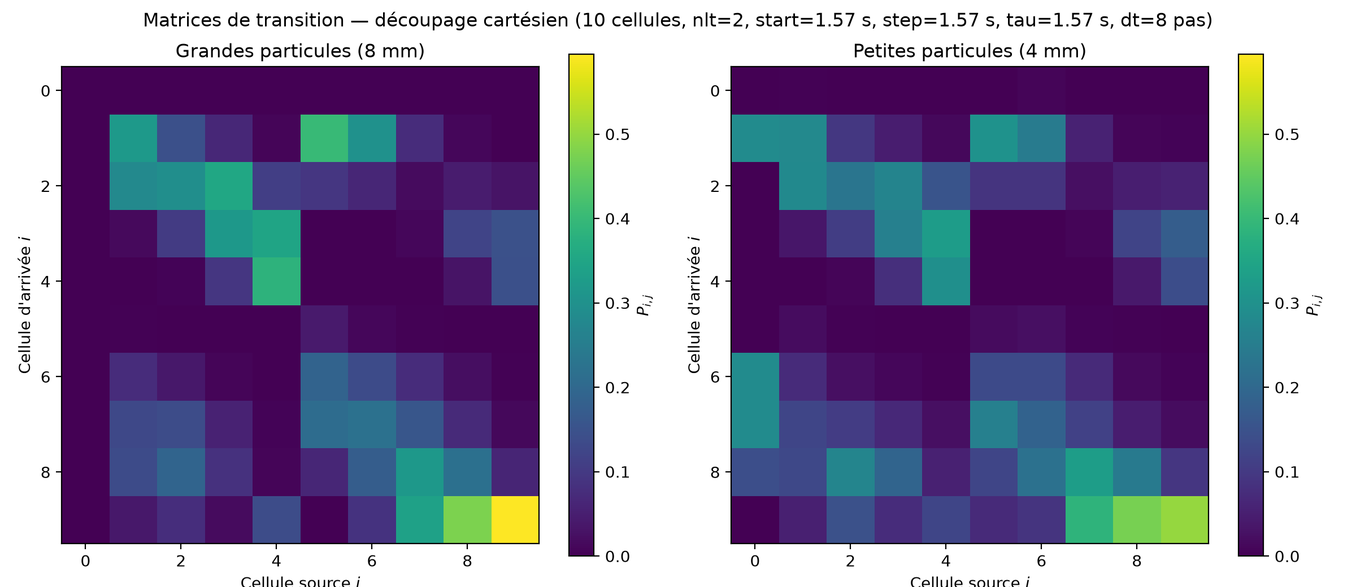
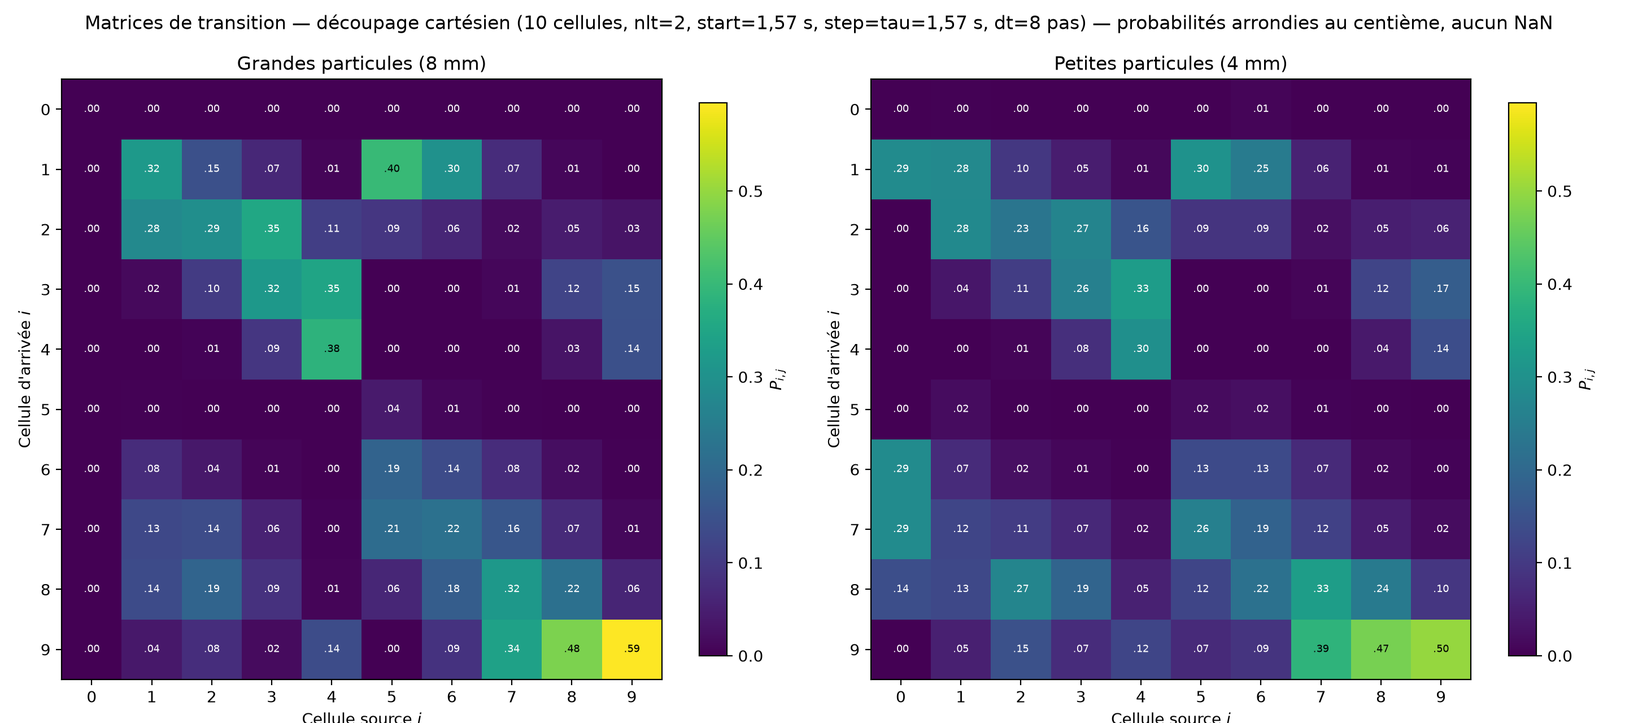
Conformité de la matrice de transition : matrices annotées au centième, vérification zéro NaN ; nouvelle annexe dt (les découpages géométriques exigent plus d'observation que les statistiques, dt=8 retenu comme critère de conformité) ; table 4 refaite avec les figures d'écart recalculées ; référence

diff --git a/template-rapport-stage/main.tex b/template-rapport-stage/main.tex
@@ -196,7 +196,7 @@ $\mathrm{RSD}$ : écart-type relatif (\textit{Relative Standard Deviation}), ind
 % ============================================================
 \section{Introduction}
 
-Qu'il s'agisse de comprimer des poudres pharmaceutiques, de doser des granulats pour la  construction ou de conditionner des céréales, les milieux granulaires interviennent dans un spectre industriel remarquablement large. Or, dès que des particules de tailles ou de densités différentes cohabitent, la ségrégation menace l'homogénéité du produit et, par là même, la qualité du procédé. Comprendre, prédire afin de contrôler ces phénomènes de tri spontané constitue donc un enjeu à la fois scientifique et économique de premier plan.
+Qu'il s'agisse de comprimer des poudres pharmaceutiques, de doser des granulats pour la construction, de conditionner des céréales ou d'incinérer des déchets en four rotatif industriel~\cite{ndiaye2010}, les milieux granulaires interviennent dans un spectre industriel remarquablement large. Or, dès que des particules de tailles ou de densités différentes cohabitent, la ségrégation menace l'homogénéité du produit et, par là même, la qualité du procédé. Comprendre, prédire afin de contrôler ces phénomènes de tri spontané constitue donc un enjeu à la fois scientifique et économique de premier plan.
 
 La simulation par la méthode des éléments discrets (DEM, \textit{Discrete Element Method}) offre une description exhaustive de la dynamique particulaire en résolvant, à chaque pas de temps de l'ordre de $10^{-6}$\,s, l'ensemble des contacts inter-grains et grain-paroi. Cette finesse a toutefois un coût en ressources numériques qui rend la méthode prohibitive dès que le nombre de particules atteint des ordres de grandeur industriels. D'où l'idée de substituer à la trajectoire déterministe de chaque grain un modèle probabiliste opéré à l'échelle de cellules spatiales.
 
@@ -261,12 +261,12 @@ Dans la pratique, les limites exactes de la partie utile ne sont pas imposées a
   \label{fig:schema_tambour}
 \end{figure}
 
-Les positions de l'ensemble des grains sont enregistrées tous les \SI{0.01}{s} sur \SI{60}{s}, soit 6000 instants d'observation. Cette base constitue la référence à partir de laquelle les matrices de transition sont estimées et les prédictions markoviennes sont validées. La figure~\ref{fig:pv_melangeur_especes}, issue du post-traitement 3D des données (rendu par sphères aux diamètres réels, à la manière de pyvista), montre le système simulé : à l'état initial, les 350 petites particules occupent une couche distincte sous les 680 grandes ; après un tour, le lit est en écoulement et l'inclinaison de la surface libre apparaît.
+Les positions de l'ensemble des grains sont enregistrées tous les \SI{0.01}{s} sur \SI{60}{s}, soit 6000 instants d'observation. Cette base constitue la référence à partir de laquelle les matrices de transition sont estimées et les prédictions markoviennes sont validées. La figure~\ref{fig:pv_melangeur_especes} montre le système simulé, particules représentées à leur diamètre réel : à l'état initial, les 350 petites particules occupent une couche distincte sous les 680 grandes ; après un tour, le lit est en écoulement et l'inclinaison de la surface libre apparaît.
 
 \begin{figure}[H]
   \centering
   \includegraphics[width=\linewidth]{figures/pv_melangeur_especes.png}
-  \caption{Post-traitement 3D du matériau de référence : les 1030 particules aux diamètres réels (petites 4 mm en bleu, grandes 8 mm en rouge), (a) à l'état initial où les espèces sont séparées et (b) après un tour de tambour, lit en écoulement.}
+  \caption{Matériau de référence : les 1030 particules aux diamètres réels (petites 4 mm en bleu, grandes 8 mm en rouge), (a) à l'état initial où les espèces sont séparées et (b) après un tour de tambour, lit en écoulement.}
   \label{fig:pv_melangeur_especes}
 \end{figure}
 
@@ -422,7 +422,7 @@ où $NLT$ est le nombre d'instants d'apprentissage, $\phi_p(i,t_n)$ la fonction 
   \item $\boldsymbol{\tau} = \SI{1.57}{s}$ (soit 157 pas d'extraction DEM) : le pas de temps de Markov est calé sur la durée d'un tour complet du tambour tournant à $\omega = \SI{4}{rad/s}$, soit $2\pi/\omega \approx \SI{1.57}{s}$. Ce choix, physiquement interprétable, garantit que les particules ont le temps de se déplacer d'une cellule à l'autre entre deux observations (justification détaillée en annexe~\ref{annexe:tau}) ;
   \item $\boldsymbol{start} = \SI{1.57}{s}$ : le premier instant utilisé pour l'apprentissage est choisi au début du régime permanent. Le début de simulation (régime transitoire) est volontairement écarté : les tout premiers instants correspondent à la mise en mouvement du lit, durant laquelle les probabilités de transition ne sont représentatives ni du mélange établi ni de la ségrégation en cours de formation ; apprendre sur cette phase biaiserait la matrice. L'étude comparative sur plusieurs valeurs de $start$ est donnée en annexe~\ref{annexe:start} ;
   \item $\boldsymbol{step} = \SI{1.57}{s}$ : lorsque plusieurs blocs d'apprentissage sont utilisés ($NLT > 1$), $step$ désigne l'écart entre les débuts de deux blocs consécutifs. Prendre $step = \tau$ fait se succéder les blocs sans recouvrement ni trou, chaque bloc correspondant à un tour de tambour supplémentaire (justification en annexe~\ref{annexe:step}) ;
-  \item $\boldsymbol{dt}$ : à l'intérieur d'un bloc, les paires d'instants $(t,\, t+\tau)$ sont échantillonnées tous les $dt$ pas de temps DEM. Cette stratégie de raffinage temporel entre les pas de temps démultiplie le nombre de paires observées : elle assure que chaque cellule source est visitée suffisamment souvent au cours de l'apprentissage, ce qui évite les colonnes vides --- donc les divisions par zéro et les \textit{NaN} --- dans la matrice de transition. Ces \textit{NaN} auraient pu être remplacés par des \textit{zéro} pour un soucis correspondance numérique; mais il n'auraient pas de signification physique.
+  \item $\boldsymbol{dt} = 8$ pas de sortie : à l'intérieur d'un bloc, les paires d'instants $(t,\, t+\tau)$ sont échantillonnées tous les $dt$ pas de sortie DEM. Cette stratégie de raffinage temporel démultiplie le nombre de paires observées : elle assure que chaque cellule est observée comme source au cours de l'apprentissage, ce qui évite les dénominateurs nuls --- donc les \textit{NaN} --- dans la matrice de transition. Ces \textit{NaN} auraient pu être remplacés par des zéros pour la commodité numérique, mais ils n'auraient pas de signification physique ; la conformité de la matrice (absence totale de \textit{NaN}) est donc retenue comme critère de choix de $dt$, et l'étude comparative correspondante est donnée en annexe~\ref{annexe:dt}. Elle montre que le besoin en observation dépend du type de découpage : les maillages géométriques, dont certaines cellules sont peu peuplées par construction, exigent un raffinage plus fin ($dt \leq 8$ pour le cylindrique) que les maillages statistiques, conformes dès $dt = \tau$.
 \end{itemize}
 
 \begin{table}[H]
@@ -437,7 +437,7 @@ où $NLT$ est le nombre d'instants d'apprentissage, $\phi_p(i,t_n)$ la fonction 
     $start$ & \SI{1.57}{s} & début de l'apprentissage & début du régime permanent (annexe~\ref{annexe:start})\\
     $step$ & \SI{1.57}{s} & écart entre blocs & blocs contigus, un tour chacun (annexe~\ref{annexe:step})\\
     $NLT$ & 1 à 50 & nombre de blocs & étude de sensibilité (annexe~\ref{annexe:nlt})\\
-    $dt$ & $\max(1, step/100)$ & raffinage temporel & éviter les NaN dans $\mathbf{P}$\\
+    $dt$ & 8 pas & raffinage temporel & conformité de $\mathbf{P}$, sans NaN (annexe~\ref{annexe:dt})\\
     \bottomrule
   \end{tabular}
 \end{table}
@@ -458,7 +458,7 @@ où $NLT$ est le nombre d'instants d'apprentissage, $\phi_p(i,t_n)$ la fonction 
   \label{eq:stochastique}
 \end{equation}
 
-Ces deux conditions sont vérifiées et validées pour chacun des modèles construits : la positivité découle du fait que l'on travaille dans un espace probabilisé, et la condition de somme unitaire traduit simplement le fait que toutes les particules quittant la cellule source $j$ se retrouvent quelque part dans le mélangeur à l'instant suivant. Implicitement, sa validation signifie que la phase d'apprentissage est suffisamment longue pour voir les particules se déplacer d'une partition à l'autre, évitant des \textit{NaN} dans la matrice.
+Ces deux conditions sont vérifiées et validées pour chacun des modèles construits : la positivité découle du fait que l'on travaille dans un espace probabilisé, et la condition de somme unitaire traduit simplement le fait que toutes les particules quittant la cellule source $j$ se retrouvent quelque part dans le mélangeur à l'instant suivant. Implicitement, sa validation signifie que la phase d'apprentissage est suffisamment longue pour voir chaque cellule observée comme source, évitant les \textit{NaN} dans la matrice. Les matrices présentées dans la section résultats, annotées au centième, satisfont toutes ce critère de conformité --- aucune n'exhibe de \textit{NaN} --- grâce au choix du raffinage temporel $dt$ justifié en annexe~\ref{annexe:dt}.
 \paragraph{Deux matrices distinctes par espèce.} Les petites et les grandes particules n'ayant pas la même dynamique --- les petites percolent à travers le lit tandis que les grandes remontent en surface ---, une matrice de transition unique moyennerait deux comportements physiquement distincts. Deux matrices sont donc estimées séparément, en appliquant un masque sur les labels afin de ne compter que les particules d'une espèce donnée. Ce choix est justifié quantitativement par l'étude de sensibilité de l'annexe~\ref{annexe:especes}, qui compare l'erreur de prédiction du modèle construit sans distinction d'espèce (matrice unique) à celle du modèle construit avec distinction (matrices par espèce), pour les quatre méthodes de découpage.
 
 \paragraph{Chaîne homogène.} Lorsque $\mathbf{P}$ est supposée invariante dans le temps, la prédiction à $n$ pas s'écrit :
@@ -708,7 +708,7 @@ Pour quantifier le degré d'homogénéité, nous utilisons l'écart-type relatif
 
 où $N_c$ est le nombre de cellules et $\bar{c}$ la teneur moyenne en petites particules.
 
-Chaque méthode de découpage est d'abord illustrée par un post-traitement 3D du mélangeur --- particules aux diamètres réels colorées par le label de leur cellule --- qui sert de base visuelle aux justifications et validations qui suivent : ces vues permettent de vérifier la labélisation, d'identifier les cellules sur- ou sous-peuplées et de relier les propriétés des matrices de transition à la géométrie effective des cellules. La figure~\ref{fig:melangeur_partitions} en donne un premier aperçu : chaque couleur correspond à une cellule du découpage, et l'on distingue immédiatement que certaines partitions sont plus peuplées que d'autres. Ce déséquilibre est physique : la gravité concentre les particules dans la moitié basse du tambour, la zone passive au cœur du lit reçoit et piège davantage de grains que la zone active de surface, et la ségrégation en cours enrichit certaines cellules en petites particules --- celles-ci percolent à travers les interstices du lit vers la paroi et le cœur, tandis que les grandes remontent en surface. C'est précisément cette hétérogénéité spatiale, variable dans le temps, que le modèle de Markov doit reproduire.
+Chaque méthode de découpage est d'abord illustrée par une vue du mélangeur --- particules aux diamètres réels colorées par le label de leur cellule --- qui sert de base visuelle aux justifications et validations qui suivent : ces vues permettent de vérifier la labélisation, d'identifier les cellules sur- ou sous-peuplées et de relier les propriétés des matrices de transition à la géométrie effective des cellules. La figure~\ref{fig:melangeur_partitions} en donne un premier aperçu : chaque couleur correspond à une cellule du découpage, et l'on distingue immédiatement que certaines partitions sont plus peuplées que d'autres. Ce déséquilibre est physique : la gravité concentre les particules dans la moitié basse du tambour, la zone passive au cœur du lit reçoit et piège davantage de grains que la zone active de surface, et la ségrégation en cours enrichit certaines cellules en petites particules --- celles-ci percolent à travers les interstices du lit vers la paroi et le cœur, tandis que les grandes remontent en surface. C'est précisément cette hétérogénéité spatiale, variable dans le temps, que le modèle de Markov doit reproduire.
 
 \begin{figure}[H]
   \centering
@@ -723,12 +723,12 @@ Chaque méthode de découpage est d'abord illustrée par un post-traitement 3D d
 
 \subsubsection{Découpage cartésien}
 
-La figure~\ref{fig:pv_cellules_cartesien} montre le résultat du découpage produit par le partitionneur cartésien de la librairie : chaque grain, représenté à son diamètre réel, est coloré par le label \textit{cell\_id} de la cellule qui le contient, en vue de face et en vue de côté. On y vérifie la labélisation en grille $5 \times 2 \times 1$ : cinq bandes verticales en $x$, deux niveaux en $y$, chaque cellule couvrant toute la longueur axiale. On note que les bornes de la grille étant ajustées sur l'enveloppe de \emph{toutes} les positions observées (convention de la librairie pour cette méthode), le lit incliné ne peuple pas uniformément les dix cellules : les cellules hautes côté droit (8, 9) sont très peuplées, la cellule basse extrême (0) reste quasiment vide.
+La figure~\ref{fig:pv_cellules_cartesien} montre le résultat du découpage cartésien : chaque grain, représenté à son diamètre réel, est coloré par le label \textit{cell\_id} de la cellule qui le contient, en vue de face et en vue de côté. On y vérifie la labélisation en grille $5 \times 2 \times 1$ : cinq bandes verticales en $x$, deux niveaux en $y$, chaque cellule couvrant toute la longueur axiale. On note que les bornes de la grille étant ajustées sur l'enveloppe de l'ensemble des positions observées, le lit incliné ne peuple pas uniformément les dix cellules : les cellules hautes côté droit (8, 9) sont très peuplées, la cellule basse extrême (0) reste quasiment vide.
 
 \begin{figure}[H]
   \centering
   \includegraphics[width=0.85\textwidth]{figures/pv_cellules_cartesien.png}
-  \caption{Post-traitement 3D du découpage cartésien de la librairie ($5 \times 2 \times 1$, 10 cellules) : particules aux diamètres réels colorées par le label \textit{cell\_id}, vue de face et vue de côté, à $t = \SI{1.57}{s}$. La vue de face montre les 5 bandes en $x$ et les 2 niveaux en $y$ ; les cellules couvrent toute la longueur axiale ($n_z = 1$).}
+  \caption{Découpage cartésien ($5 \times 2 \times 1$, 10 cellules) : particules aux diamètres réels colorées par le label \textit{cell\_id}, vue de face et vue de côté, à $t = \SI{1.57}{s}$. La vue de face montre les 5 bandes en $x$ et les 2 niveaux en $y$ ; les cellules couvrent toute la longueur axiale ($n_z = 1$).}
   \label{fig:pv_cellules_cartesien}
 \end{figure}
 
@@ -737,7 +737,7 @@ Les matrices de transition (figure~\ref{fig:matrice_cartesien}) révèlent d'emb
 \begin{figure}[H]
   \centering
   \includegraphics[width=\linewidth]{figures/matrice_cartesien_especes.png}
-  \caption{Matrices de transition construites avec la librairie pour le découpage cartésien ($5 \times 2 \times 1$, 10 cellules, configuration : $nlt = 2$, $start = \SI{1.57}{s}$, $step = \tau = \SI{1.57}{s}$, $dt = 8$ pas), séparément pour chaque espèce.}
+  \caption{Matrices de transition du découpage cartésien ($5 \times 2 \times 1$, 10 cellules, configuration : $nlt = 2$, $start = \SI{1.57}{s}$, $step = \tau = \SI{1.57}{s}$, $dt = 8$ pas), séparément pour chaque espèce.}
   \label{fig:matrice_cartesien}
 \end{figure}
 
@@ -754,12 +754,12 @@ Le découpage cylindrique remédie à ce défaut en épousant la géométrie du 
   \label{fig:cylindrique_resolutions}
 \end{figure}
 
-La vue 3D de la figure~\ref{fig:pv_cellules_cylindrique} montre la labélisation produite par le partitionneur cylindrique de la librairie pour la résolution retenue dans la suite ($n_r = 2$, $n_\theta = 5$, 10 cellules) : les cinq secteurs angulaires, tournés autour de l'axe du tambour, découpent le lit en quartiers, et les deux couronnes radiales séparent une couronne interne (cellules 0 à 4, peu peuplées car le cœur géométrique du tambour est en partie au-dessus du lit) d'une couronne externe contre la paroi (cellules 5 à 9, qui concentrent l'essentiel des particules). Chaque cellule regroupe ainsi des particules de la zone active et de la zone passive --- première indication visuelle de la limite de ce maillage pour la ségrégation.
+La figure~\ref{fig:pv_cellules_cylindrique} montre la labélisation du découpage cylindrique pour la résolution retenue dans la suite ($n_r = 2$, $n_\theta = 5$, 10 cellules) : les cinq secteurs angulaires, tournés autour de l'axe du tambour, découpent le lit en quartiers, et les deux couronnes radiales séparent une couronne interne (cellules 0 à 4, peu peuplées car le cœur géométrique du tambour est en partie au-dessus du lit) d'une couronne externe contre la paroi (cellules 5 à 9, qui concentrent l'essentiel des particules). Chaque cellule regroupe ainsi des particules de la zone active et de la zone passive --- première indication visuelle de la limite de ce maillage pour la ségrégation.
 
 \begin{figure}[H]
   \centering
   \includegraphics[width=0.85\textwidth]{figures/pv_cellules_cylindrique.png}
-  \caption{Post-traitement 3D du découpage cylindrique de la librairie ($n_r = 2$, $n_\theta = 5$, 10 cellules) : particules aux diamètres réels colorées par le label \textit{cell\_id}, vue de face et vue de côté, à $t = \SI{1.57}{s}$. Les secteurs angulaires et les deux couronnes radiales (couronne interne visible au cœur du lit, couronne externe contre la paroi) se lisent sur la vue de face.}
+  \caption{Découpage cylindrique ($n_r = 2$, $n_\theta = 5$, 10 cellules) : particules aux diamètres réels colorées par le label \textit{cell\_id}, vue de face et vue de côté, à $t = \SI{1.57}{s}$. Les secteurs angulaires et les deux couronnes radiales (couronne interne visible au cœur du lit, couronne externe contre la paroi) se lisent sur la vue de face.}
   \label{fig:pv_cellules_cylindrique}
 \end{figure}
 
@@ -768,7 +768,7 @@ Les matrices de transition construites par espèce pour un découpage cylindriqu
 \begin{figure}[H]
   \centering
   \includegraphics[width=\linewidth]{figures/matrice_cylindrique_especes.png}
-  \caption{Matrices de transition construites avec la librairie pour le découpage cylindrique (10 cellules, $n_r = 2$, $n_\theta = 5$, mode à aire constante ; configuration : $nlt = 2$, $start = \SI{1.57}{s}$, $step = \tau = \SI{1.57}{s}$, $dt = 8$ pas), séparément pour chaque espèce. La structure en blocs suit la numérotation radiale $\to$ angulaire.}
+  \caption{Matrices de transition du découpage cylindrique (10 cellules, $n_r = 2$, $n_\theta = 5$, mode à aire constante ; configuration : $nlt = 2$, $start = \SI{1.57}{s}$, $step = \tau = \SI{1.57}{s}$, $dt = 8$ pas), séparément pour chaque espèce. La structure en blocs suit la numérotation radiale $\to$ angulaire.}
   \label{fig:matrice_cylindrique}
 \end{figure}
 
@@ -788,7 +788,7 @@ Le pas de temps markovien est fixé à \SI{1.57}{s}, soit approximativement un t
 \begin{figure}[H]
   \centering
   \includegraphics[width=0.85\textwidth]{figures/pv_cellules_voronoi.png}
-  \caption{Post-traitement 3D du découpage de Voronoï de la librairie (10 cellules) : particules aux diamètres réels colorées par le label \textit{cell\_id}, vue de face et vue de côté, à $t = \SI{1.57}{s}$. Les centroïdes k-means se répartissent dans les trois directions : la vue de côté révèle le partage axial des cellules, invisible en projection de face.}
+  \caption{Découpage de Voronoï (10 cellules) : particules aux diamètres réels colorées par le label \textit{cell\_id}, vue de face et vue de côté, à $t = \SI{1.57}{s}$. Les centroïdes k-means se répartissent dans les trois directions : la vue de côté révèle le partage axial des cellules, invisible en projection de face.}
   \label{fig:pv_cellules_voronoi}
 \end{figure}
 
@@ -797,7 +797,7 @@ Deux matrices distinctes sont estimées en appliquant un masque sur les labels a
 \begin{figure}[H]
   \centering
   \includegraphics[width=\linewidth]{figures/matrice_voronoi_especes.png}
-  \caption{Matrices de transition construites avec la librairie pour le découpage de Voronoï (10 cellules, configuration : $nlt = 2$, $start = \SI{1.57}{s}$, $step = \tau = \SI{1.57}{s}$, $dt = 8$ pas), séparément pour chaque espèce.}
+  \caption{Matrices de transition du découpage de Voronoï (10 cellules, configuration : $nlt = 2$, $start = \SI{1.57}{s}$, $step = \tau = \SI{1.57}{s}$, $dt = 8$ pas), séparément pour chaque espèce.}
   \label{fig:matrices_voronoi}
 \end{figure}
 
@@ -851,7 +851,7 @@ La figure~\ref{fig:pv_cellules_physique} montre la labélisation du découpage p
 \begin{figure}[H]
   \centering
   \includegraphics[width=0.85\textwidth]{figures/pv_cellules_physique.png}
-  \caption{Post-traitement 3D du découpage physique de la librairie (10 cellules) : particules aux diamètres réels colorées par le label \textit{cell\_id}, vue de face et vue de côté, à $t = \SI{1.57}{s}$. Le vecteur de caractéristiques (positions + vitesse relative) produit des cellules stratifiées entre surface libre et cœur du lit, partagées aussi selon l'axe $z$.}
+  \caption{Découpage physique (10 cellules) : particules aux diamètres réels colorées par le label \textit{cell\_id}, vue de face et vue de côté, à $t = \SI{1.57}{s}$. Le vecteur de caractéristiques (positions + vitesse relative) produit des cellules stratifiées entre surface libre et cœur du lit, partagées aussi selon l'axe $z$.}
   \label{fig:pv_cellules_physique}
 \end{figure}
 
@@ -867,7 +867,7 @@ En intégrant la norme de la vitesse dans le critère de partitionnement, les ce
 \begin{figure}[H]
   \centering
   \includegraphics[width=\linewidth]{figures/matrice_physique_especes.png}
-  \caption{Matrices de transition construites avec la librairie pour le découpage physique (10 cellules, configuration : $nlt = 2$, $start = \SI{1.57}{s}$, $step = \tau = \SI{1.57}{s}$, $dt = 8$ pas), séparément pour chaque espèce.}
+  \caption{Matrices de transition du découpage physique (10 cellules, configuration : $nlt = 2$, $start = \SI{1.57}{s}$, $step = \tau = \SI{1.57}{s}$, $dt = 8$ pas), séparément pour chaque espèce.}
   \label{fig:matrice_physique}
 \end{figure}
 
@@ -879,7 +879,7 @@ La figure~\ref{fig:comparaison_methodes_rsd} confronte, pour les quatre méthode
 \begin{figure}[H]
   \centering
   \includegraphics[width=\linewidth]{figures/comparaison_methodes_rsd.png}
-  \caption{Influence de la méthode de découpage sur la prédiction (données DEM réelles) : RSD DEM vs prédiction markovienne homogène pour les quatre méthodes, à nombre de cellules identique (10 cellules) et à configuration identique ($nlt = 2$, $start = \SI{1.57}{s}$, $step = \tau = \SI{1.57}{s}$, $dt = 8$ pas). L'écart moyen est indiqué dans le titre de chaque cadran.}
+  \caption{Influence de la méthode de découpage sur la prédiction : RSD DEM vs prédiction markovienne homogène pour les quatre méthodes, à nombre de cellules identique (10 cellules) et à configuration identique ($nlt = 2$, $start = \SI{1.57}{s}$, $step = \tau = \SI{1.57}{s}$, $dt = 8$ pas). L'écart moyen est indiqué dans le titre de chaque cadran.}
   \label{fig:comparaison_methodes_rsd}
 \end{figure}
 
@@ -896,7 +896,7 @@ La figure~\ref{fig:comparaison_methodes_rsd} confronte, pour les quatre méthode
   \end{tabular}
 \end{table}
 
-Le tableau~\ref{tab:erreur_methodes} complète cette analyse en rassemblant, pour les trois méthodes statistiquement les plus contrastées, l'écart temporel moyen $|\text{Markov}-\text{DEM}|$, l'écart absolu toutes cellules confondues et l'erreur RMS.
+Le tableau~\ref{tab:erreur_methodes} complète cette analyse en rassemblant, pour les trois méthodes les plus contrastées et pour chaque espèce, l'écart temporel RMS $|\text{Markov}-\text{DEM}|$ et la carte des écarts absolus par cellule (configuration : $nlt = 2$, $start = \SI{1.57}{s}$, $step = \tau = \SI{1.57}{s}$, $dt = 8$ pas). Les écarts RMS moyens en régime établi s'échelonnent de 3,2 à 3,7 particules pour les grandes et de 6,5 à 8,6 particules pour les petites, ces dernières étant systématiquement plus difficiles à prédire du fait de leur mobilité par percolation.
 
 \begin{table}[H]
   \centering
@@ -907,16 +907,16 @@ Le tableau~\ref{tab:erreur_methodes} complète cette analyse en rassemblant, pou
     Méthode & \multicolumn{1}{c}{Grandes particules} & \multicolumn{1}{c}{Petites particules} \\
     \midrule
     Cartésien &
-    \includegraphics[width=0.42\textwidth]{figures/erreur_cartesien_grandes.png} &
-    \includegraphics[width=0.42\textwidth]{figures/erreur_cartesien_petites.png} \\
+    \includegraphics[width=0.44\textwidth]{figures/erreur_lib_cartesien_large.png} &
+    \includegraphics[width=0.44\textwidth]{figures/erreur_lib_cartesien_small.png} \\
     \addlinespace
     Voronoï &
-    \includegraphics[width=0.42\textwidth]{figures/erreur_voronoi_grandes.png} &
-    \includegraphics[width=0.42\textwidth]{figures/erreur_voronoi_petites.png} \\
+    \includegraphics[width=0.44\textwidth]{figures/erreur_lib_voronoi_large.png} &
+    \includegraphics[width=0.44\textwidth]{figures/erreur_lib_voronoi_small.png} \\
     \addlinespace
     Physique &
-    \includegraphics[width=0.42\textwidth]{figures/erreur_physique_grandes.png} &
-    \includegraphics[width=0.42\textwidth]{figures/erreur_physique_petites.png} \\
+    \includegraphics[width=0.44\textwidth]{figures/erreur_lib_physique_large.png} &
+    \includegraphics[width=0.44\textwidth]{figures/erreur_lib_physique_small.png} \\
     \bottomrule
   \end{tabular}
 \end{table}
@@ -1010,7 +1010,7 @@ Plusieurs axes de prolongement se dessinent. Une question ouverte, directement i
 
 \section{Justification des paramètres du modèle de Markov}
 \label{annexe:parametres}
-Cette annexe rassemble les études comparatives qui justifient les valeurs des paramètres de construction du modèle (tableau~\ref{tab:parametres} du corps du texte) : le pas de temps de Markov $\tau$ (\S\ref{annexe:tau}), le nombre de blocs d'apprentissage $NLT$ (\S\ref{annexe:nlt}), l'instant de départ $start$ (\S\ref{annexe:start}) et l'écart entre blocs $step$ (\S\ref{annexe:step}). La démarche suit l'étude comparative de Doucet et al.~\cite{doucet2008} : deux familles de grandeurs de comparaison sont utilisées --- d'une part la convergence de la matrice de transition elle-même, mesurée par une erreur relative entre matrices (grandeur retenue par ces auteurs pour valider la stationnarité du processus appris), d'autre part la fidélité de la prédiction, mesurée par l'écart des indicateurs macroscopiques (RSD de la teneur) entre le modèle et la référence DEM. Pour chaque étude, la configuration complète du modèle ($nlt$, $start$, $step$, $\tau$, $dt$) est explicitée. Tous les temps sont exprimés en secondes ; on rappelle que le pas de sortie des résultats DEM vaut \SI{0.01}{s}, si bien que $\SI{1.57}{s}$ correspond à 157 pas de sortie.
+Cette annexe rassemble les études comparatives qui justifient les valeurs des paramètres de construction du modèle (tableau~\ref{tab:parametres} du corps du texte) : le pas de temps de Markov $\tau$ (\S\ref{annexe:tau}), le nombre de blocs d'apprentissage $NLT$ (\S\ref{annexe:nlt}), l'instant de départ $start$ (\S\ref{annexe:start}), l'écart entre blocs $step$ (\S\ref{annexe:step}) et le raffinage temporel $dt$ (\S\ref{annexe:dt}). La démarche suit l'étude comparative de Doucet et al.~\cite{doucet2008} : deux familles de grandeurs de comparaison sont utilisées --- d'une part la convergence de la matrice de transition elle-même, mesurée par une erreur relative entre matrices (grandeur retenue par ces auteurs pour valider la stationnarité du processus appris), d'autre part la fidélité de la prédiction, mesurée par l'écart des indicateurs macroscopiques (RSD de la teneur) entre le modèle et la référence DEM. Pour chaque étude, la configuration complète du modèle ($nlt$, $start$, $step$, $\tau$, $dt$) est explicitée. Tous les temps sont exprimés en secondes ; on rappelle que le pas de sortie des résultats DEM vaut \SI{0.01}{s}, si bien que $\SI{1.57}{s}$ correspond à 157 pas de sortie.
 
 % ------------------------------------------------------------
 \subsection{Choix du pas de temps de Markov \texorpdfstring{$\tau = \SI{1.57}{s}$}{tau = 1,57 s}}
@@ -1037,7 +1037,7 @@ Ce choix répond à un double impératif. D'une part, $\tau$ doit être suffisam
 \begin{figure}[H]
   \centering
   \includegraphics[width=\linewidth]{figures/etude_tau_rsd.png}
-  \caption{Influence du pas de temps de Markov $\tau$ sur la cinétique de mélange prédite, calculée sur les données DEM (découpage physique, 10 cellules ; configuration : $nlt = 2$, $start = \SI{1.57}{s}$, $step = \tau$, $dt = \tau/10$) : RSD DEM de la teneur en petites particules (noir) et prédictions markoviennes homogènes pour $\tau$ de \SI{0.1}{s} à \SI{10}{s}, dégradé viridis. La courbe épaisse correspond à la valeur retenue $\tau = \SI{1.57}{s}$.}
+  \caption{Influence du pas de temps de Markov $\tau$ sur la cinétique de mélange prédite, calculée sur les données de la simulation (découpage physique, 10 cellules ; configuration : $nlt = 2$, $start = \SI{1.57}{s}$, $step = \tau$, $dt = \tau/10$) : RSD DEM de la teneur en petites particules (noir) et prédictions markoviennes homogènes pour $\tau$ de \SI{0.1}{s} à \SI{10}{s}, dégradé viridis. La courbe épaisse correspond à la valeur retenue $\tau = \SI{1.57}{s}$.}
   \label{fig:etude_tau}
 \end{figure}
 
@@ -1218,18 +1218,53 @@ Lorsque plusieurs blocs d'apprentissage sont utilisés ($NLT > 1$), le paramètr
   \item $step = \tau = \SI{1.57}{s}$ fait se succéder les blocs de manière contiguë et sans recouvrement : chaque bloc correspond exactement à un tour de tambour supplémentaire, chaque transition observée est comptée une seule fois, et la fenêtre d'apprentissage reste compacte.
 \end{itemize}
 
-L'étude de sensibilité menée sur les données DEM (figure~\ref{fig:etude_step_courbe}) balaie $step$ de \SI{0.40}{s} à \SI{4.71}{s} (découpage physique, 10 cellules, $NLT = 3$, $\tau = \SI{1.57}{s}$) et mesure l'erreur moyenne $|\mathrm{RSD}_{\text{Markov}} - \mathrm{RSD}_{\text{DEM}}|$. On observe que les valeurs intermédiaires non commensurables avec la période du tambour ($step = \SI{0.80}{s}$) dégradent l'erreur (0{,}086) : les blocs échantillonnent alors des phases de rotation différentes, et leur moyenne mélange des configurations angulaires hétérogènes. Les valeurs commensurables avec la période ($step = \SI{1.57}{s}$, \SI{3.14}{s}) ramènent l'erreur autour de 0{,}06, chaque bloc couvrant un nombre entier de tours ; au-delà ($step = \SI{4.71}{s}$), l'erreur remonte, la fenêtre totale d'apprentissage s'étirant sans gain statistique. La petite valeur $step = \SI{0.40}{s}$ donne l'erreur la plus basse sur ce cas particulier, mais au prix d'un recouvrement partiel des fenêtres d'observation des blocs, qui corrèle les blocs entre eux et fragilise l'interprétation de la moyenne --- et, pour les chaînes inhomogènes, désynchronise les matrices de la période physique.
+L'étude de sensibilité menée sur la simulation de référence (figure~\ref{fig:etude_step_courbe}) balaie $step$ de \SI{0.40}{s} à \SI{4.71}{s} (découpage physique, 10 cellules, $NLT = 3$, $\tau = \SI{1.57}{s}$) et mesure l'erreur moyenne $|\mathrm{RSD}_{\text{Markov}} - \mathrm{RSD}_{\text{DEM}}|$. On observe que les valeurs intermédiaires non commensurables avec la période du tambour ($step = \SI{0.80}{s}$) dégradent l'erreur (0{,}086) : les blocs échantillonnent alors des phases de rotation différentes, et leur moyenne mélange des configurations angulaires hétérogènes. Les valeurs commensurables avec la période ($step = \SI{1.57}{s}$, \SI{3.14}{s}) ramènent l'erreur autour de 0{,}06, chaque bloc couvrant un nombre entier de tours ; au-delà ($step = \SI{4.71}{s}$), l'erreur remonte, la fenêtre totale d'apprentissage s'étirant sans gain statistique. La petite valeur $step = \SI{0.40}{s}$ donne l'erreur la plus basse sur ce cas particulier, mais au prix d'un recouvrement partiel des fenêtres d'observation des blocs, qui corrèle les blocs entre eux et fragilise l'interprétation de la moyenne --- et, pour les chaînes inhomogènes, désynchronise les matrices de la période physique.
 
 \begin{figure}[H]
   \centering
   \includegraphics[width=0.78\textwidth]{figures/etude_step_erreur.png}
-  \caption{Étude de sensibilité à l'écart entre blocs $step$, calculée sur les données DEM (découpage physique, 10 cellules ; configuration : $nlt = 3$, $start = \SI{1.57}{s}$, $\tau = \SI{1.57}{s}$, $dt = 8$ pas) : erreur moyenne $|\mathrm{RSD}_{\text{Markov}} - \mathrm{RSD}_{\text{DEM}}|$ sur la fenêtre de prédiction. La ligne pointillée marque la valeur retenue $step = \tau = \SI{1.57}{s}$.}
+  \caption{Étude de sensibilité à l'écart entre blocs $step$, calculée sur les données de la simulation (découpage physique, 10 cellules ; configuration : $nlt = 3$, $start = \SI{1.57}{s}$, $\tau = \SI{1.57}{s}$, $dt = 8$ pas) : erreur moyenne $|\mathrm{RSD}_{\text{Markov}} - \mathrm{RSD}_{\text{DEM}}|$ sur la fenêtre de prédiction. La ligne pointillée marque la valeur retenue $step = \tau = \SI{1.57}{s}$.}
   \label{fig:etude_step_courbe}
 \end{figure}
 
 Pour les chaînes inhomogènes, le choix $step = \tau$ prend une signification supplémentaire : la matrice $\mathbf{P}^{(k)}$ du bloc $k$ est exactement la matrice du $k$-ième tour de tambour suivant le départ, ce qui rend la séquence de matrices directement interprétable --- et synchronisée avec la prédiction de l'équation~\eqref{eq:prediction_inhomogene}, chaque pas de prédiction consommant la matrice du bloc correspondant. La valeur $step = \SI{1.57}{s}$ est donc adoptée pour tous les modèles multi-blocs du mémoire, la cohérence $\tau = step = start = \SI{1.57}{s}$ alignant l'ensemble de la chronologie d'apprentissage sur la période physique du tambour.
 
 % ------------------------------------------------------------
+% ------------------------------------------------------------
+\subsection{Choix du raffinage temporel \texorpdfstring{$dt$}{dt} : conformité de la matrice de transition}
+\label{annexe:dt}
+
+La matrice de transition n'est exploitable que si chacune de ses colonnes est définie : une cellule occupée pendant la fenêtre d'apprentissage mais jamais observée comme cellule source produit un dénominateur nul dans l'équation~\eqref{eq:matrice_transition}, donc des \textit{NaN} dans la colonne correspondante. Le critère de conformité retenu est l'absence totale de \textit{NaN} --- vérifiée sur les matrices arrondies au centième présentées dans le corps du texte --- et c'est le raffinage temporel $dt$ qui permet de le satisfaire : plus $dt$ est petit, plus le nombre de paires $(t,\, t+\tau)$ observées dans chaque bloc est grand, et plus chaque cellule a de chances d'être vue comme source.
+
+L'étude fait varier $dt$ de 157 à 4 pas de sortie, à configuration fixée ($nlt = 2$, $start = \SI{1.57}{s}$, $step = \tau = \SI{1.57}{s}$), et compte pour chaque méthode le nombre de cellules occupées jamais observées comme source (pire cas des deux espèces). La figure~\ref{fig:etude_dt} et le tableau~\ref{tab:etude_dt} rassemblent les résultats.
+
+\begin{figure}[H]
+  \centering
+  \includegraphics[width=0.85\textwidth]{figures/etude_dt_nan.png}
+  \caption{Conformité de la matrice de transition selon le raffinage temporel $dt$ : nombre de cellules occupées jamais observées comme source (sources de \textit{NaN}), pour les quatre méthodes de découpage à 10 cellules ($nlt = 2$, $start = \SI{1.57}{s}$, $step = \tau = \SI{1.57}{s}$).}
+  \label{fig:etude_dt}
+\end{figure}
+
+\begin{table}[H]
+  \centering
+  \caption{Nombre de cellules sources manquantes (sources de \textit{NaN} dans $\mathbf{P}$) selon $dt$, par méthode de découpage. La matrice est conforme lorsque ce nombre est nul.}
+  \label{tab:etude_dt}
+  \begin{tabular}{lcccccc}
+    \toprule
+    $dt$ (pas) & 157 & 78 & 39 & 16 & \textbf{8} & 4\\
+    \midrule
+    Cartésien   & 1 & 0 & 0 & 0 & \textbf{0} & 0\\
+    Cylindrique & 2 & 2 & 1 & 1 & \textbf{0} & 0\\
+    Voronoï     & 0 & 0 & 0 & 0 & \textbf{0} & 0\\
+    Physique    & 0 & 0 & 0 & 0 & \textbf{0} & 0\\
+    \bottomrule
+  \end{tabular}
+\end{table}
+
+Le contraste entre les deux familles de découpage est net et s'explique par la configuration des cellules. Les maillages statistiques (Voronoï, physique) placent leurs centroïdes là où les particules se trouvent : toutes les cellules sont peuplées en permanence, chaque cellule est observée comme source dès la première paire, et la matrice est conforme quel que soit $dt$ --- y compris avec une seule paire par bloc ($dt = 157$). Les maillages géométriques, au contraire, possèdent par construction des cellules marginales faiblement peuplées --- la cellule basse extrême de la grille cartésienne, les cellules de la couronne interne cylindrique dont une partie est au-dessus du lit --- qui ne sont traversées que sporadiquement : il faut multiplier les instants d'observation pour les surprendre occupées. Le cartésien devient conforme dès $dt = 78$ ; le cylindrique, dont les cellules internes sont les plus intermittentes, exige $dt \leq 8$.
+
+La valeur retenue pour toutes les études du mémoire, $dt = 8$ pas de sortie, est ainsi la plus grande valeur qui rende la matrice conforme --- sans \textit{NaN} --- pour les quatre méthodes simultanément, permettant la comparaison des découpages à configuration strictement identique. Ce résultat illustre au passage un avantage opérationnel des découpages statistiques : leur besoin en temps d'observation est minimal, là où les découpages géométriques exigent un échantillonnage plus dense pour la même qualité de matrice.
+
 \subsection{Justification des matrices distinctes par espèce}
 \label{annexe:especes}
 

diff --git a/postprocessing/etudes_librairie.py b/postprocessing/etudes_librairie.py
@@ -772,3 +772,139 @@ if __name__ == "__main__":
     dump_labels_3d(etudes)
     print("\n✅ toutes les figures écrites (calculs 100 % librairie) dans",
           FIGDIR)
+
+
+def etude_dt(etudes):
+    """Justification du raffinage temporel dt : conformité de la matrice.
+
+    Une cellule occupée durant la fenêtre d'apprentissage mais jamais
+    observée comme source produit un dénominateur nul dans l'équation de la
+    matrice de transition, donc des NaN. On compte, pour chaque méthode et
+    chaque valeur de dt, le nombre de ces cellules (pire cas des deux
+    espèces). La matrice est dite conforme lorsque ce nombre est nul.
+    """
+    dts = [157, 78, 39, 16, 8, 4]
+    resume = {}
+    for key, et in etudes.items():
+        vals = []
+        for dt in dts:
+            cfg = config_for(et.method, dt=dt)
+            r0 = int(np.searchsorted(et.times, cfg.start_index))
+            r1 = int(np.searchsorted(
+                et.times, cfg.start_index + cfg.nlt * (cfg.step + cfg.tau)))
+            worst = 0
+            for sp in ("small", "large"):
+                P = et.build_P(cfg, sp)
+                visited = P.sum(axis=1) > 0
+                occupees = et.S_matrices[sp][r0:r1].sum(axis=0) > 0
+                manquantes = int((occupees & ~visited).sum())
+                worst = max(worst, manquantes)
+            vals.append(worst)
+            print(f"  {et.nom} dt={dt}: cellules sources manquantes={worst}")
+        resume[et.nom] = vals
+
+    fig, ax = plt.subplots(figsize=(9, 5.2))
+    for nom, vals in resume.items():
+        ax.plot(dts, vals, "o-", color=COLORS[nom], lw=2, label=nom)
+    ax.axhline(0, color="k", lw=0.8)
+    ax.invert_xaxis()
+    ax.set_xlabel("Raffinage temporel $dt$ (pas de sortie DEM)")
+    ax.set_ylabel("Cellules occupées jamais observées comme source\n"
+                  "(sources de NaN dans $\\mathbf{P}$, pire des deux espèces)")
+    ax.set_title(
+        "Conformité de la matrice de transition selon $dt$\n"
+        "(10 cellules par méthode, nlt=2, start=1,57 s, step=tau=1,57 s)"
+    )
+    ax.legend()
+    ax.grid(alpha=0.3)
+    fig.tight_layout()
+    fig.savefig(FIGDIR / "etude_dt_nan.png", dpi=200)
+    plt.close(fig)
+    with open(FIGDIR / "etude_dt_table.txt", "w") as f:
+        f.write("dt      " + "  ".join(f"{d:>5d}" for d in dts) + "\n")
+        for nom, vals in resume.items():
+            f.write(f"{nom:<12}" + "  ".join(f"{v:>5d}" for v in vals) + "\n")
+    print("dt ok", resume)
+    return resume
+
+
+def matrices_annotees(etudes):
+    """Matrices de transition annotées au centième + vérification NaN."""
+    for key, et in etudes.items():
+        cfg = config_for(et.method)
+        P_small = et.build_P(cfg, "small")
+        P_large = et.build_P(cfg, "large")
+        n_nan = int(np.isnan(P_small).sum() + np.isnan(P_large).sum())
+        print(f"  {et.nom}: NaN dans P = {n_nan}")
+        vmax = max(P_small.max(), P_large.max())
+        fig, axes = plt.subplots(1, 2, figsize=(14.5, 6.4))
+        for ax, P, ttl in ((axes[0], P_large.T, "Grandes particules (8 mm)"),
+                           (axes[1], P_small.T, "Petites particules (4 mm)")):
+            im = ax.imshow(P, cmap="viridis", vmin=0, vmax=vmax)
+            for i in range(P.shape[0]):
+                for j in range(P.shape[1]):
+                    v = P[i, j]
+                    ax.text(j, i, f"{v:.2f}".replace("0.", "."),
+                            ha="center", va="center", fontsize=6.5,
+                            color="white" if v < 0.6 * vmax else "black")
+            ax.set_xticks(range(10))
+            ax.set_yticks(range(10))
+            ax.set_xlabel("Cellule source $j$")
+            ax.set_ylabel("Cellule d'arrivée $i$")
+            ax.set_title(ttl)
+            fig.colorbar(im, ax=ax, label="$P_{i,j}$", shrink=0.85)
+        fig.suptitle(f"Matrices de transition — découpage {et.nom.lower()} "
+                     f"(10 cellules, nlt=2, start=1,57 s, step=tau=1,57 s, "
+                     f"dt=8 pas) — probabilités arrondies au centième, "
+                     f"aucun NaN")
+        fig.tight_layout()
+        fig.savefig(FIGDIR / f"matrice_{key}_especes.png", dpi=200)
+        plt.close(fig)
+    print("matrices annotées ok")
+
+
+def table_erreurs(etudes):
+    """Figures d'écart |Markov - DEM| par méthode et par espèce (table 4)."""
+    noms_sp = {"large": "grandes", "small": "petites"}
+    for key in ("cartesien", "voronoi", "physique"):
+        et = etudes[key]
+        cfg = config_for(et.method)
+        for sp in ("large", "small"):
+            P_clean, act = clean_transition_matrix(et.build_P(cfg, sp))
+            row0 = int(np.searchsorted(et.times, cfg.start_index))
+            S0 = et.S_matrices[sp][row0].astype(float)
+            traj, t_mk = propagate_markov(
+                S0, P_clean, et.times, cfg.start_index, cfg.tau, act)
+            rows = np.searchsorted(et.times, t_mk)
+            S_dem = et.S_matrices[sp][rows]
+            err = np.abs(traj - S_dem)
+            rms = np.sqrt((err ** 2).mean(axis=1))
+
+            fig, axes = plt.subplots(1, 2, figsize=(12.5, 4.6),
+                                     width_ratios=[1, 1.25])
+            axes[0].plot(t_mk / 100, rms, "-", color="#d62728", lw=2)
+            axes[0].fill_between(t_mk / 100, 0, rms, color="#d62728",
+                                 alpha=0.25)
+            axes[0].set_xlabel("Temps (s)")
+            axes[0].set_ylabel("Écart RMS (particules)")
+            axes[0].set_title("Écart temporel RMS $|$Markov $-$ DEM$|$")
+            axes[0].grid(alpha=0.3)
+            im = axes[1].imshow(err.T, cmap="viridis", aspect="auto",
+                                origin="lower",
+                                extent=[t_mk[0] / 100, t_mk[-1] / 100,
+                                        -0.5, err.shape[1] - 0.5])
+            axes[1].set_xlabel("Temps (s)")
+            axes[1].set_ylabel("Indice de cellule")
+            axes[1].set_title("Écart absolu par cellule")
+            fig.colorbar(im, ax=axes[1],
+                         label="$|$Markov $-$ DEM$|$ (particules)")
+            fig.suptitle(
+                f"Découpage {et.nom.lower()} — {noms_sp[sp]} particules "
+                f"(nlt=2, start=1,57 s, step=tau=1,57 s, dt=8 pas)",
+                fontsize=11)
+            fig.tight_layout()
+            fig.savefig(FIGDIR / f"erreur_lib_{key}_{sp}.png", dpi=200)
+            plt.close(fig)
+            print(f"  erreur {key} {sp}: RMS moyen "
+                  f"{rms[1:].mean():.2f} particules")
+    print("table erreurs ok")
